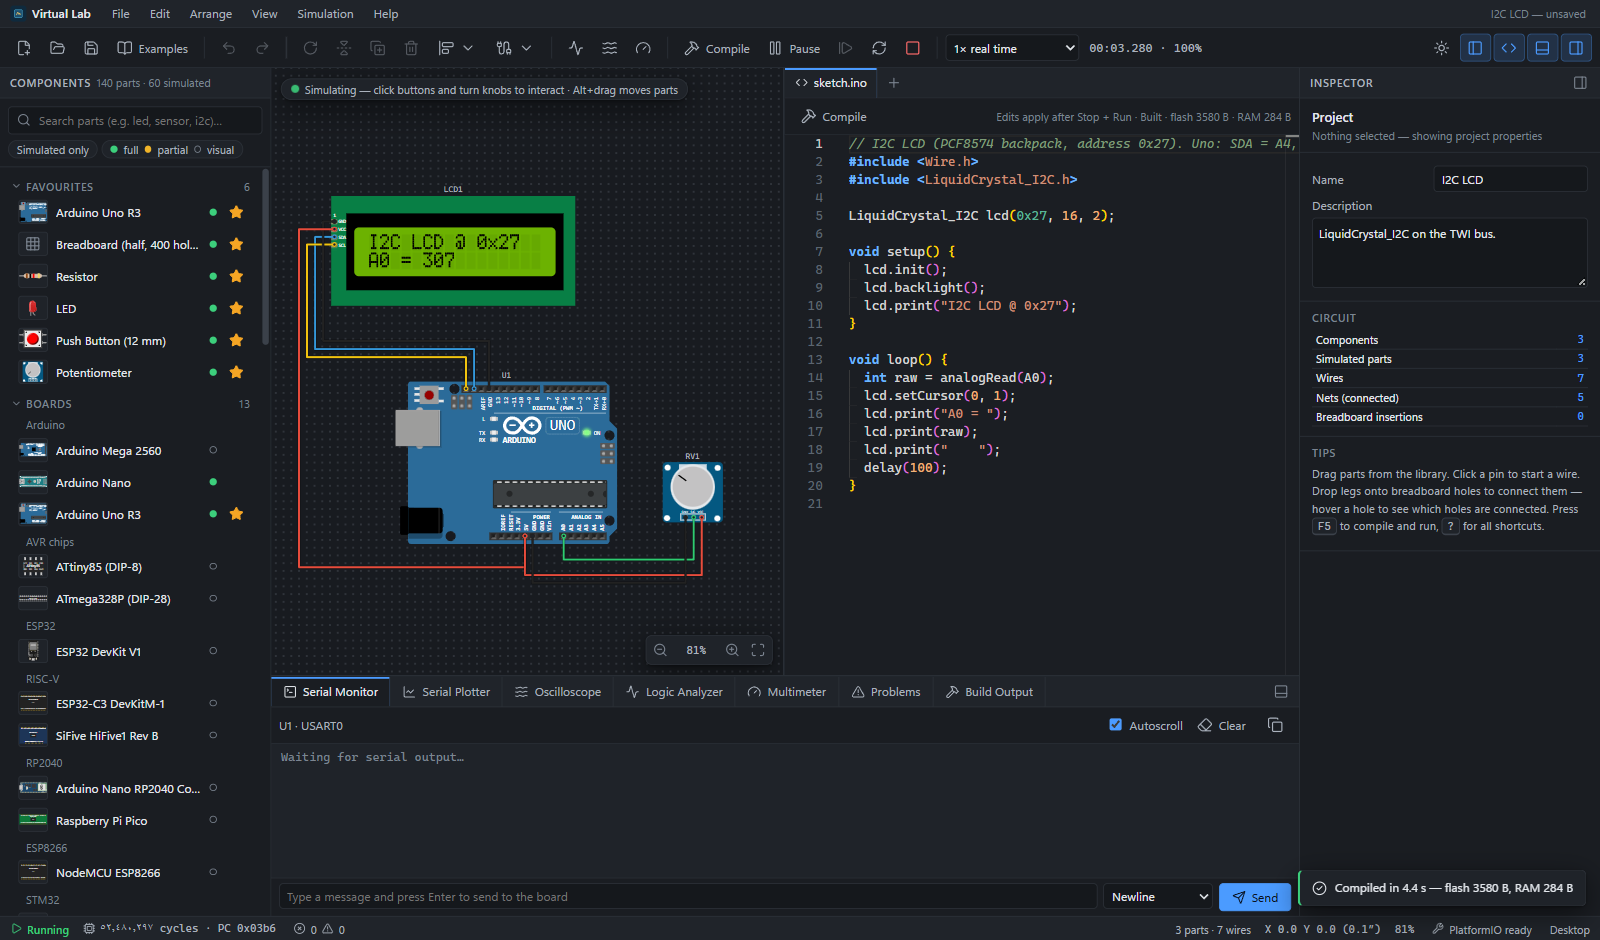
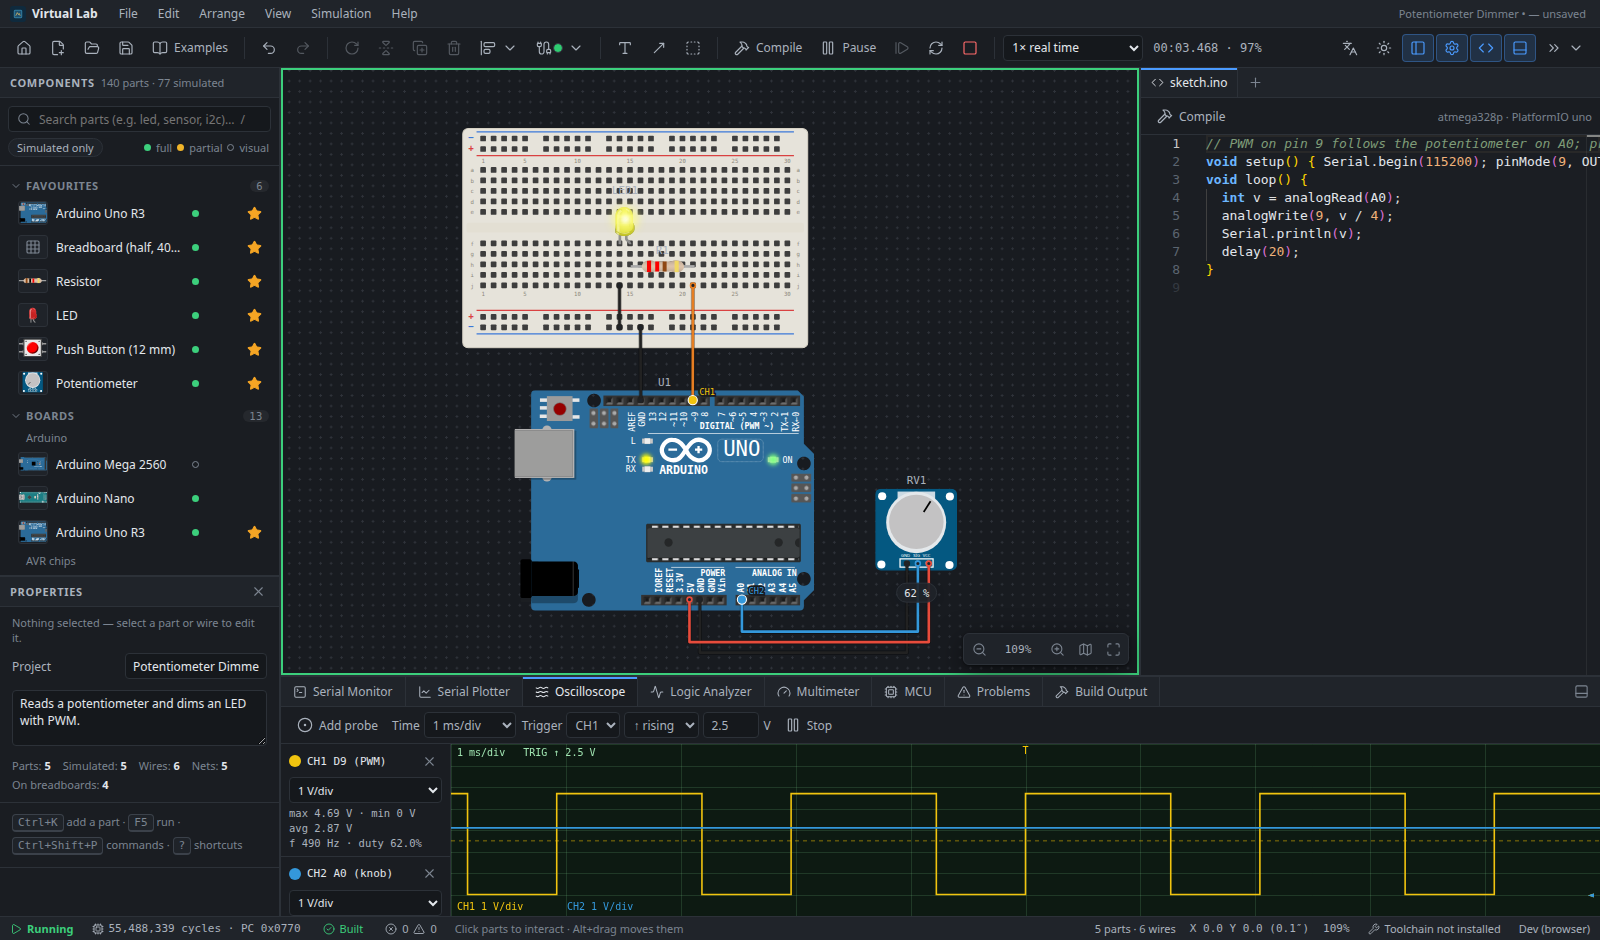
Release 0.3.0: version bump, refreshed screenshots and information
- Version 0.3.0 in package.json, package-lock.json, tauri.conf.json,
  Cargo.toml and Cargo.lock (merging to main publishes release v0.3.0 with
  the Windows installers).
- All README screenshots retaken with the current interface: an Arduino
  Uno dimmer with its PWM on the oscilloscope, an I2C LCD with the MCU
  panel, MicroPython on the Pico, the example gallery and the Arabic Parts
  Guide.
- README download name and roadmap updated for 0.3.0.

Claude-Session: https://claude.ai/code/session_01ECHzepf8vfJgyB4ewweCAc

diff --git a/README.md b/README.md
@@ -14,15 +14,15 @@ Editor and PlatformIO.
 
 **[⬇ Download the Windows installer](../../releases/latest)**
 
-![I²C LCD example running: firmware drives an LCD over the emulated TWI bus while a potentiometer is read on A0](docs/images/screenshot-dark.png)
+![Arduino Uno potentiometer dimmer running: the oscilloscope shows the 490 Hz PWM on pin 9 at the duty set by the knob on A0](docs/images/screenshot-dark.png)
 
 | Python on a Raspberry Pi Pico — ADC and PWM, values in the REPL | 27 ready-to-run examples on the start screen |
 |---|---|
 | ![MicroPython potentiometer dimmer running on a simulated Pico](docs/images/screenshot-python.png) | ![Example gallery on the start screen](docs/images/screenshot-examples.png) |
 
-| Light theme — traffic light running on a breadboard | Arabic interface — the Parts Guide |
+| Light theme — an I²C LCD on the emulated TWI bus, MCU panel open | Arabic interface — the Parts Guide |
 |---|---|
-| ![Traffic light example in the light theme](docs/images/screenshot-light.png) | ![Parts Guide page for the Raspberry Pi Pico in Arabic](docs/images/screenshot-arabic.png) |
+| ![I2C LCD driven by an Arduino Uno in the light theme, with the MCU panel showing pins and registers](docs/images/screenshot-light.png) | ![Parts Guide page for the Raspberry Pi Pico in Arabic](docs/images/screenshot-arabic.png) |
 
 ## Highlights
 
@@ -86,7 +86,7 @@ Editor and PlatformIO.
 
 ## Getting started (users)
 
-1. Download `EmbeddedSystemsVirtualLab_0.2.0_x64-setup.exe` (or the `.msi`) from the
+1. Download `EmbeddedSystemsVirtualLab_0.3.0_x64-setup.exe` (or the `.msi`) from the
    [Releases page](../../releases/latest) and run it. Windows 10/11 x64; the installer is not
    code-signed yet, so SmartScreen may ask you to confirm ("More info" → "Run anyway").
 2. The start screen opens: pick an example, a template or a recent project. Switch the

diff --git a/docs/06-roadmap.md b/docs/06-roadmap.md
@@ -4,7 +4,7 @@ What the lab can grow into next, grouped by area. Items are ideas with a directi
 commitments; [04 — Simulation fidelity](04-simulation-fidelity.md) lists what is simulated today
 and its limits.
 
-## Recently added
+## Added in 0.3.0
 
 - Start screen with recent projects (live previews), templates, examples and a Learn tab.
 - English and Arabic interface, with a right-to-left layout for Arabic.
@@ -64,5 +64,3 @@ and its limits.
   schematic view generated from the same circuit.
 - Several projects open in tabs; smart alignment guides; locking parts in place; customisable
   keyboard shortcuts.
-- Release: these features ship under version 0.2.0 until the version number is raised (raising
-  it publishes a new release when merged).
